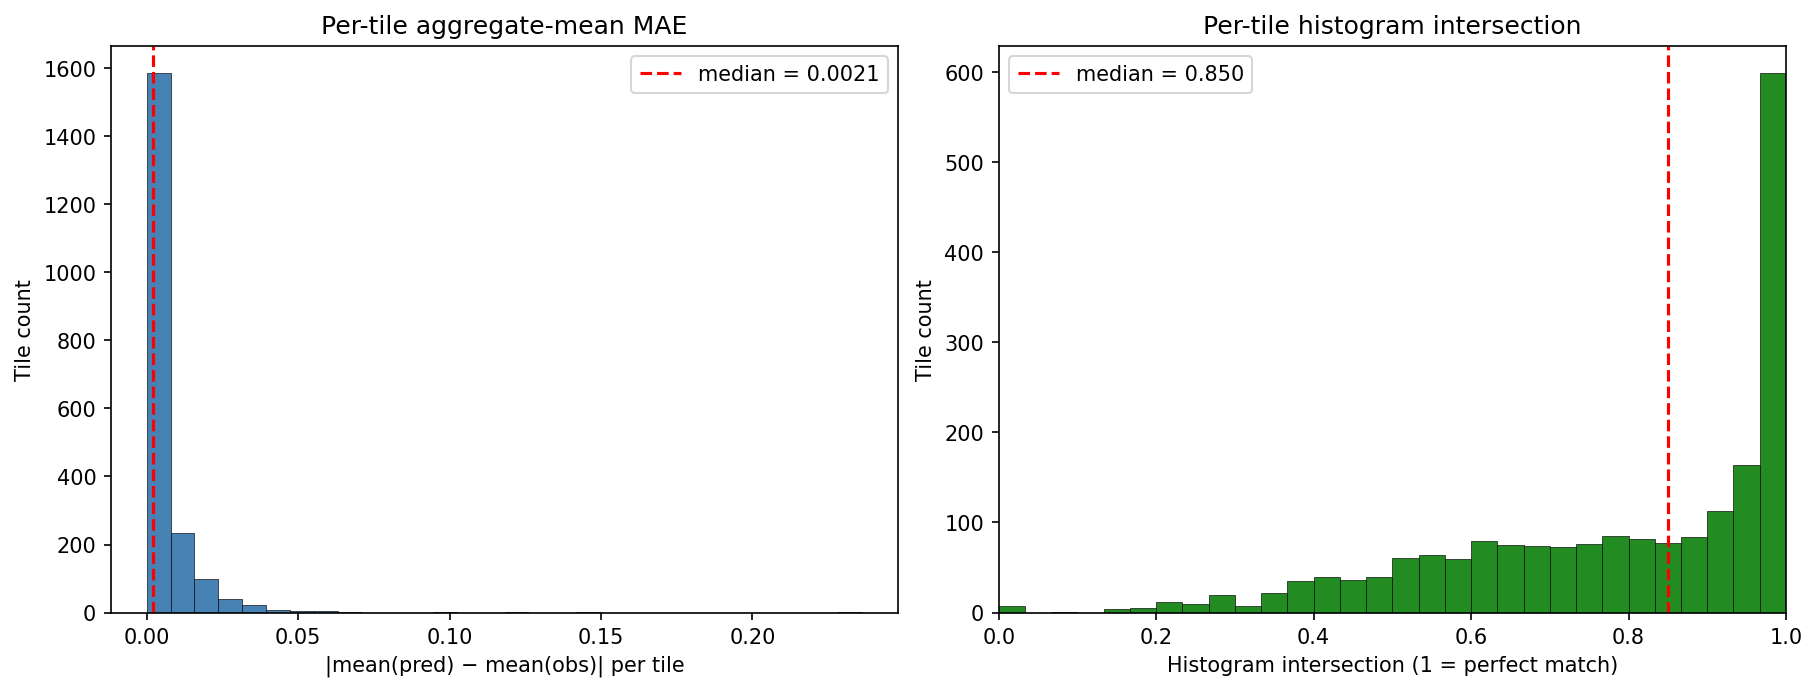
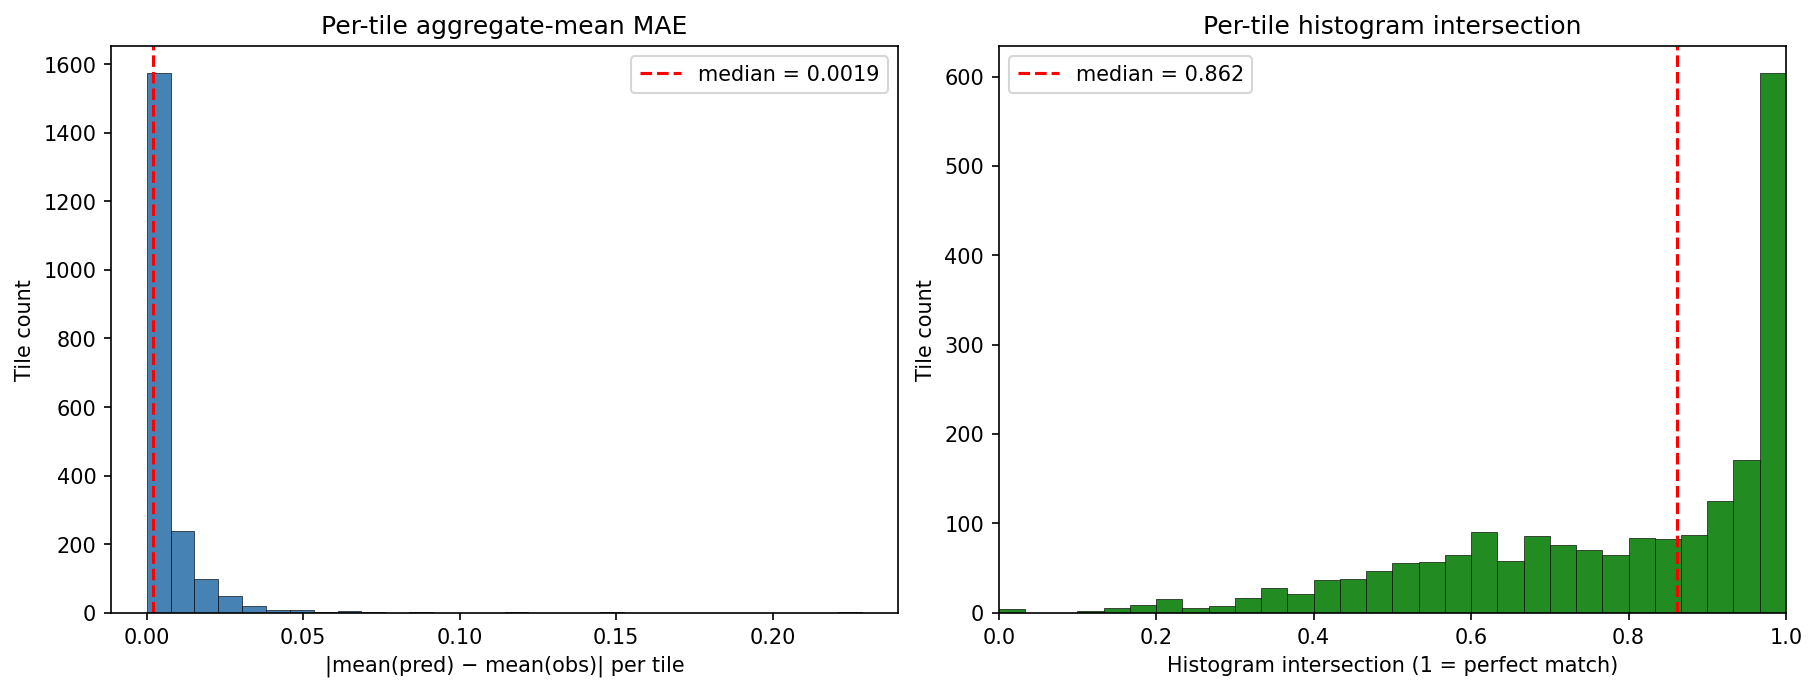
feat: replace IDW spatial-context with binary-threshold distance channels
Inverse-distance weighting captured neighborhood HM intensity but mixes
"how surrounded" with "how strong nearby" in a single signal. The user
wants explicit proximity to development of a given intensity, so switch
to two binary thresholds (HM > 0.1 and HM > 0.4) and Euclidean distance
to the nearest pixel above each threshold.

- New scripts/preprocess_distance.py: scipy.ndimage.distance_transform_edt
  on (HM > T) per year × per threshold, NaN preserved on ocean. Produces
  HM_YEAR_dist10 (≈ "distance to any development") and HM_YEAR_dist40
  (≈ "distance to intense modification") rasters with the same georef as
  the source HM_AA. Total preprocessing: ~75 s per output, 14 outputs.
- Dataloader hm_vars are now extended with dist10, dist40 (instead of
  idw15, idw51) when target_mode='delta_20yr'. Distance rasters flow
  through the existing per-variable normalization (dist10 mean ≈ 70 px,
  dist40 ≈ 142 px) — no new code paths.
- Removed the on-the-fly IDW helpers and constructor params that only
  existed for the IDW design.
- Trained v4-mac-50epoch-base128-distance (W&B run ebcdx6ax). Best
  checkpoint epoch 33, val_loss 0.1684.

Eval on the small region vs the spatial-context-free v2 baseline:
  Pearson r        0.489 → 0.517   (+6 %, headline)
  MAE median       0.0021 → 0.0019 (-10 %)
  histogram inter. 0.850  → 0.862  (median)
  coverage rate    0.791  → 0.799

Distance-to-development is the most useful conditioning signal for
[…]

diff --git a/scripts/torchgeo_dataloader.py b/scripts/torchgeo_dataloader.py
@@ -45,35 +45,9 @@ import numpy as np
 import rasterio
 
 
-def _make_idw_kernels(sizes=(15, 51), decay=1.0):
-    """Build inverse-distance weighting kernels w(d) = 1 / (d^decay + ε).
-
-    HM is continuous in [0, 1] so a binary "distance to feature" doesn't
-    apply. Instead we treat each pixel's HM value as the *intensity* of
-    modification at that location and ask, for every target pixel, "how
-    much modification surrounds you, weighted by 1/distance?". Convolving
-    HM with these kernels gives a per-pixel neighborhood-IDW signal that
-    captures proximity to roads / urban / infrastructure (which are the
-    dominant contributors to HM_AA).
-
-    Two scales by default: a "near" kernel (radius 15 ≈ 15 km at 1 km/px
-    grid) for immediate-neighborhood pressure, and a "far" kernel
-    (radius 51) for regional context.
-    """
-    kernels = []
-    for size in sizes:
-        half = int(size)
-        full = 2 * half + 1
-        y, x = np.ogrid[-half:half + 1, -half:half + 1]
-        d = np.sqrt(x * x + y * y).astype(np.float32)
-        eps = 1e-6
-        w = 1.0 / (d ** decay + eps)
-        w[half, half] = 0.0  # exclude self
-        s = w.sum()
-        if s > 0:
-            w = w / s
-        kernels.append(w)
-    return kernels
+def _distance_label(threshold: float) -> str:
+    """Format a threshold like 0.10 → 'dist10', 0.40 → 'dist40'."""
+    return f"dist{int(round(threshold * 100)):02d}"
 
 
 class HumanFootprintChipDataset(torch.utils.data.Dataset):
@@ -111,10 +85,8 @@ class HumanFootprintChipDataset(torch.utils.data.Dataset):
         target_mode="absolute_4horizons",
         restrict_to_region=None,
         dhm_stats_cache=None,
-        add_idw=None,
-        idw_kernel_radii=(15, 51),
-        idw_decay=1.0,
-        idw_stats_cache=None,
+        add_distance=None,
+        distance_thresholds=(0.1, 0.4),
     ):
         self.hm_files = hm_files
         self.component_files = component_files
@@ -132,16 +104,17 @@ class HumanFootprintChipDataset(torch.utils.data.Dataset):
         self.restrict_to_region = restrict_to_region
         self.dhm_stats_cache = dhm_stats_cache
 
-        # IDW spatial-context channels: defaults on for delta_20yr, off otherwise.
-        # IDW rasters must be precomputed via scripts/preprocess_idw.py and live
-        # alongside the HM_AA / component rasters.
-        if add_idw is None:
-            add_idw = (target_mode == "delta_20yr")
-        self.add_idw = bool(add_idw)
-        self.idw_kernel_radii = tuple(int(r) for r in idw_kernel_radii) if self.add_idw else ()
-        self.idw_decay = float(idw_decay)  # tracked for cache compatibility only
-        self.idw_stats_cache = idw_stats_cache  # unused under precompute path
-        self.n_idw_channels = len(self.idw_kernel_radii)
+        # Distance-to-HM-threshold channels: defaults on for delta_20yr, off otherwise.
+        # Distance rasters (e.g. HM_2000_dist10_1000.tiff, HM_2000_dist40_1000.tiff)
+        # must be precomputed via scripts/preprocess_distance.py and live alongside
+        # the HM_AA / component rasters.
+        if add_distance is None:
+            add_distance = (target_mode == "delta_20yr")
+        self.add_distance = bool(add_distance)
+        self.distance_thresholds = (
+            tuple(float(t) for t in distance_thresholds) if self.add_distance else ()
+        )
+        self.n_distance_channels = len(self.distance_thresholds)
 
         if target_mode == "delta_20yr":
             if list(end_year_options) != [2000] or use_temporal_sampling \
@@ -167,12 +140,15 @@ class HumanFootprintChipDataset(torch.utils.data.Dataset):
         self.include_components = bool(include_components)
         self._hm_files = list(hm_files)
         self._static_files = list(static_files if static_channels is None else static_files[:int(static_channels)])
-        # Effective component variable list (extended with precomputed IDW vars
-        # when add_idw=True). The IDW rasters get the same per-variable
-        # normalization treatment as the original HM components.
+        # Effective component variable list (extended with precomputed
+        # distance-to-HM-threshold vars when add_distance=True). Those distance
+        # rasters get the same per-variable normalization treatment as the
+        # original HM components.
         self.hm_vars = list(HM_VARS)
-        if self.add_idw and self.idw_kernel_radii:
-            self.hm_vars = self.hm_vars + [f"idw{r}" for r in self.idw_kernel_radii]
+        if self.add_distance and self.distance_thresholds:
+            self.hm_vars = self.hm_vars + [
+                _distance_label(t) for t in self.distance_thresholds
+            ]
         if self.include_components:
             self._comp_files = {
                 y: [_resolve(f"HM_{y}_{v}_1000.tiff") for v in self.hm_vars]
@@ -250,8 +226,8 @@ class HumanFootprintChipDataset(torch.utils.data.Dataset):
         self.elev_std = self.static_stds[0] if self.static_stds else 1.0
         
         # Component stats (per variable) - critical for GDP/population which have different scales.
-        # Note: self.hm_vars may include precomputed IDW vars (idw15, idw51) when add_idw=True;
-        # those go through the same per-variable normalization pipeline.
+        # Note: self.hm_vars may include precomputed distance vars (dist10, dist40) when
+        # add_distance=True; those go through the same per-variable normalization pipeline.
         self.comp_means = {}
         self.comp_stds = {}
         if self.include_components:
@@ -362,8 +338,8 @@ class HumanFootprintChipDataset(torch.utils.data.Dataset):
         else:
             self.chip_positions = None
 
-        # C_comp already includes IDW vars when add_idw is True (they're added
-        # to self.hm_vars and self._comp_files above).
+        # C_comp already includes distance vars when add_distance is True (they're
+        # added to self.hm_vars and self._comp_files above).
         self.C_comp = len(self._comp_files[years[0]]) if self.include_components else 0
         self.C_dyn = 1 + self.C_comp
         self.C_static = len(self._static_files)
@@ -512,7 +488,7 @@ class HumanFootprintChipDataset(torch.utils.data.Dataset):
                 # Data is already in [0, 1] range
                 arr_hm = (arr_hm - self.hm_mean) / self.hm_std
                 channels.append(arr_hm)
-                # HM covariates (originals + precomputed IDW vars when add_idw)
+                # HM covariates (originals + precomputed distance vars when add_distance)
                 if self.include_components and self._comp_srcs.get(year, []):
                     for var_idx, src in enumerate(self._comp_srcs[year]):
                         carr = src.read(1, window=rasterio.windows.Window(j, i, self.chip_size, self.chip_size), masked=True).filled(np.nan)
@@ -663,10 +639,8 @@ def get_dataloader(
     target_mode="absolute_4horizons",
     restrict_to_region=None,
     dhm_stats_cache=None,
-    add_idw=None,
-    idw_kernel_radii=(15, 51),
-    idw_decay=1.0,
-    idw_stats_cache=None,
+    add_distance=None,
+    distance_thresholds=(0.1, 0.4),
 ):
     """
     Create a DataLoader for the Human Footprint dataset.
@@ -679,11 +653,10 @@ def get_dataloader(
             overlaps the rasterized region are kept.
         dhm_stats_cache: Optional path to cache (mean, std) of Δhm; ignored unless
             target_mode == "delta_20yr".
-        add_idw: Whether to add IDW(HM) channels per timestep (default: True for
-            delta_20yr, False otherwise).
-        idw_kernel_radii: Per-channel kernel radii (pixels). Default (15, 51).
-        idw_decay: IDW kernel decay exponent. Default 1.0 (1/d weighting).
-        idw_stats_cache: Optional JSON path to cache per-kernel mean/std.
+        add_distance: Whether to read precomputed distance-to-HM-threshold rasters
+            as extra component channels (default: True for delta_20yr, False otherwise).
+            Rasters must be precomputed via scripts/preprocess_distance.py.
+        distance_thresholds: Per-channel HM thresholds. Default (0.1, 0.4).
     """
     ds = HumanFootprintChipDataset(
         hm_files,
@@ -708,10 +681,8 @@ def get_dataloader(
         target_mode=target_mode,
         restrict_to_region=restrict_to_region,
         dhm_stats_cache=dhm_stats_cache,
-        add_idw=add_idw,
-        idw_kernel_radii=idw_kernel_radii,
-        idw_decay=idw_decay,
-        idw_stats_cache=idw_stats_cache,
+        add_distance=add_distance,
+        distance_thresholds=distance_thresholds,
     )
     return DataLoader(
         ds,

diff --git a/scripts/preprocess_distance.py b/scripts/preprocess_distance.py
@@ -1,0 +1,115 @@
+"""Precompute distance-to-HM-threshold rasters.
+
+For each available HM_YEAR_AA_1000.tiff and each requested HM threshold T,
+produces a `HM_YEAR_dist{T*100:02d}_1000.tiff` raster (e.g. dist10 for
+threshold 0.10, dist40 for 0.40) with the same grid / projection as the
+input. Each pixel holds the Euclidean distance (in pixels ≈ km on the
+1 km grid) to the nearest pixel where HM > T.
+
+Pixels that themselves satisfy HM > T have distance 0; pixels far from
+any HM > T region have large distances. Ocean / no-data pixels (NaN in
+the source) are propagated as NaN in the output.
+
+Usage:
+    python scripts/preprocess_distance.py --thresholds 0.1 0.4
+"""
+from __future__ import annotations
+
+import argparse
+import os
+import sys
+import time
+from pathlib import Path
+
+PROJECT_ROOT = Path(__file__).resolve().parent.parent
+sys.path.insert(0, str(PROJECT_ROOT / "scripts"))
+
+import numpy as np
+import rasterio
+from scipy.ndimage import distance_transform_edt
+
+from torchgeo_dataloader import _resolve
+
+
+def parse_args():
+    p = argparse.ArgumentParser()
+    p.add_argument("--years", type=int, nargs="+",
+                   default=[1990, 1995, 2000, 2005, 2010, 2015, 2020])
+    p.add_argument("--thresholds", type=float, nargs="+", default=[0.1, 0.4],
+                   help="HM thresholds (each yields one distance raster).")
+    p.add_argument("--out_dir", default="data/raw/hm_global",
+                   help="Where to write the distance rasters.")
+    p.add_argument("--overwrite", action="store_true")
+    return p.parse_args()
+
+
+def threshold_label(threshold: float) -> str:
+    """Format a threshold like 0.10 → 'dist10', 0.40 → 'dist40'."""
+    return f"dist{int(round(threshold * 100)):02d}"
+
+
+def compute_distance(hm: np.ndarray, threshold: float) -> np.ndarray:
+    """Per-pixel distance to the nearest pixel with HM > threshold.
+
+    `scipy.ndimage.distance_transform_edt(arr)` measures the distance from
+    each True/non-zero pixel to the nearest False/zero pixel. We want the
+    inverse — distance from each pixel to the nearest *feature* pixel
+    (HM > threshold) — so we feed `~feature_mask`.
+    """
+    nan_mask = ~np.isfinite(hm)
+    hm_filled = np.where(nan_mask, 0.0, hm)
+    feature_mask = hm_filled > threshold
+    if feature_mask.sum() == 0:
+        # No features exist at this threshold: distance is undefined → NaN
+        out = np.full_like(hm_filled, np.nan, dtype=np.float32)
+    else:
+        out = distance_transform_edt(~feature_mask).astype(np.float32)
+    out[nan_mask] = np.nan
+    return out
+
+
+def main():
+    args = parse_args()
+    out_dir = Path(args.out_dir)
+    out_dir.mkdir(parents=True, exist_ok=True)
+    print(f"Thresholds: {args.thresholds} → labels: "
+          f"{[threshold_label(t) for t in args.thresholds]}")
+    total_start = time.time()
+
+    for year in args.years:
+        src_path = _resolve(f"HM_{year}_AA_1000.tiff")
+        if not os.path.exists(src_path):
+            print(f"⚠ skipping {year}: source not found at {src_path}")
+            continue
+        print(f"\n── {year} ── source: {src_path}")
+        with rasterio.open(src_path) as src:
+            hm = src.read(1, masked=True).filled(np.nan).astype(np.float32)
+            profile = src.profile.copy()
+        profile.update(dtype="float32", compress="deflate", predictor=2, tiled=True)
+
+        for threshold in args.thresholds:
+            label = threshold_label(threshold)
+            out_path = out_dir / f"HM_{year}_{label}_1000.tiff"
+            if out_path.exists() and not args.overwrite:
+                print(f"  ✓ {out_path.name} already exists; skipping (use --overwrite)")
+                continue
+
+            t0 = time.time()
+            n_features = int(((hm > threshold) & np.isfinite(hm)).sum())
+            print(f"  computing distance to HM>{threshold} "
+                  f"({n_features:,} feature pixels)...", flush=True)
+            dist = compute_distance(hm, threshold)
+            elapsed = time.time() - t0
+            finite = np.isfinite(dist)
+            print(f"    distance done in {elapsed:.1f}s; finite={finite.sum():,} / {dist.size:,}, "
+                  f"min={float(np.nanmin(dist)):.1f}, max={float(np.nanmax(dist)):.1f}, "
+                  f"mean={float(np.nanmean(dist)):.2f} pixels", flush=True)
+            with rasterio.open(out_path, "w", **profile) as dst:
+                dst.write(dist, 1)
+            print(f"    wrote {out_path}", flush=True)
+
+    print(f"\nTotal preprocessing time: {time.time() - total_start:.1f}s")
+
+
+if __name__ == "__main__":
+    main()

diff --git a/scripts/predict_region_diffusion.py b/scripts/predict_region_diffusion.py
@@ -91,7 +91,7 @@ def quick_stats(stat_samples=512, chip_size=64):
     ds = HumanFootprintChipDataset(
         hm_files, component_files, static_files,
         chip_size=chip_size, stat_samples=stat_samples,
-        target_mode="delta_20yr",  # match training mode (extends hm_vars with IDW)
+        target_mode="delta_20yr",  # match training mode (extends hm_vars with distance vars)
     )
     return dict(
         hm_mean=float(ds.hm_mean), hm_std=float(ds.hm_std),
@@ -134,7 +134,7 @@ def main():
     hm_mean, hm_std = stats["hm_mean"], stats["hm_std"]
     comp_means, comp_stds = stats["comp_means"], stats["comp_stds"]
     static_means, static_stds = stats["static_means"], stats["static_stds"]
-    # The dataset extends hm_vars with idw15/idw51 when delta_20yr; use that list
+    # The dataset extends hm_vars with dist10/dist40 when delta_20yr; use that list
     # both for normalization keys AND to know which raster files to open.
     hm_vars_used = stats["hm_vars"]
     comp_files_used = stats["comp_files"]
@@ -179,7 +179,7 @@ def main():
 
     # Open all rasters
     hm_srcs = [rasterio.open(p) for p in hm_files]
-    # Use the extended component file list from the dataset (includes IDW vars).
+    # Use the extended component file list from the dataset (includes distance vars).
     comp_srcs = {y: [rasterio.open(p) for p in comp_files_used[y]] for y in years}
     stat_srcs = [rasterio.open(p) for p in static_files]
     nan_to_zero_static = {0, 4, 5, 6}
@@ -235,7 +235,7 @@ def main():
                 channels = []
                 arr_hm = hm_srcs[t_idx].read(1, window=win, masked=True).filled(np.nan)
                 channels.append((arr_hm - hm_mean) / hm_std)
-                # Components (originals + precomputed IDW vars when delta_20yr)
+                # Components (originals + precomputed distance vars when delta_20yr)
                 for var_idx, (var_name, src) in enumerate(zip(hm_vars_used, comp_srcs[y])):
                     carr = src.read(1, window=win, masked=True).filled(np.nan)
                     carr = np.nan_to_num(carr, nan=0.0)

diff --git a/docs/diffusion_v1_results.md b/docs/diffusion_v1_results.md
@@ -7,11 +7,11 @@
 - Aggregate-tile size: **16×16** pixels (10 km blocks).
 - Histogram bins (rarity-weighted, matches baseline `histogram_loss.py`):
   `[-1.0, -0.005, 0.005, 0.02, 0.1, 0.2, 0.4, 0.6, 1.0]`.
-- W&B run: [glennwithtwons/spatio-temporal-diffusion/ry0po5mo](https://wandb.ai/glennwithtwons/spatio-temporal-diffusion/ry0po5mo)
+- W&B run: [glennwithtwons/spatio-temporal-diffusion/ebcdx6ax](https://wandb.ai/glennwithtwons/spatio-temporal-diffusion/ebcdx6ax)
 
 ## Model & checkpoint
 
-- Checkpoint: `/Users/glen.moncrieff/python/spatio_temporal/spatio-temporal-diffusion/ry0po5mo/checkpoints/dhm-diffusion-epoch33-valloss0.1682.ckpt`
+- Checkpoint: `/Users/glen.moncrieff/python/spatio_temporal/spatio-temporal-diffusion/ebcdx6ax/checkpoints/dhm-diffusion-epoch33-valloss0.1684.ckpt`
 - Stopping epoch: 33 (global step 2176)
 - Architecture: `ConditionalDiffusionUNet` (`diffusers.UNet2DModel`)
   - sample_size = 64
@@ -19,7 +19,7 @@
   - channel_mults = [1, 2, 2, 4]
   - attention_head_dim = 64, attention_at_low_two = True
   - layers_per_block = 2
-  - cond_channels = 49 (3 timesteps × 11 dyn + 7 static + locenc + 1 hm_t)
+  - cond_channels = 55 (3 timesteps × 11 dyn + 7 static + locenc + 1 hm_t)
   - parameter count = **74.1 M**
 - Diffusion: `DDPMScheduler(prediction_type="v_prediction", beta_schedule="squaredcos_cap_v2")`
   - num_train_timesteps = 1000
@@ -32,13 +32,13 @@
 | Metric | Value |
 |---|---|
 | Tiles with valid coverage | 2,003 of 7,150 |
-| Tile-mean MAE (median) | **0.0021** |
-| Tile-mean MAE (mean) | 0.0056 |
-| Tile-mean MAE (95th %ile) | 0.0222 |
-| Histogram intersection (median) | **0.850** |
-| Histogram intersection (mean) | 0.785 |
-| Pearson r (predicted vs. observed tile-mean Δhm) | 0.489 |
-| Coverage rate (q025 ≤ obs ≤ q975) | 0.791 (target ≈ 0.95) |
+| Tile-mean MAE (median) | **0.0019** |
+| Tile-mean MAE (mean) | 0.0055 |
+| Tile-mean MAE (95th %ile) | 0.0224 |
+| Histogram intersection (median) | **0.862** |
+| Histogram intersection (mean) | 0.789 |
+| Pearson r (predicted vs. observed tile-mean Δhm) | 0.517 |
+| Coverage rate (q025 ≤ obs ≤ q975) | 0.799 (target ≈ 0.95) |
 
 ## Figures
 
